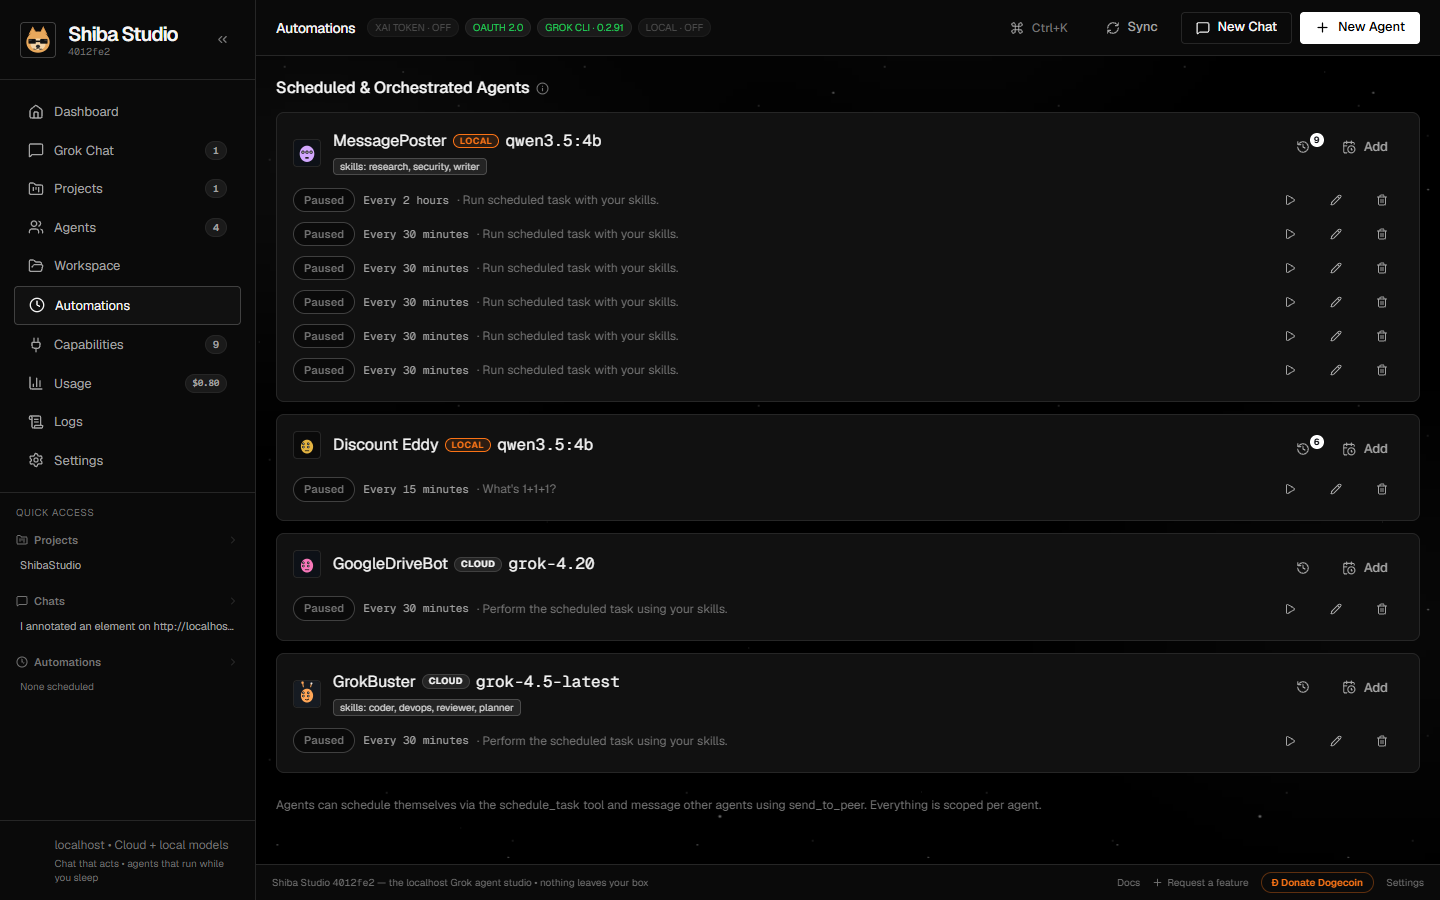
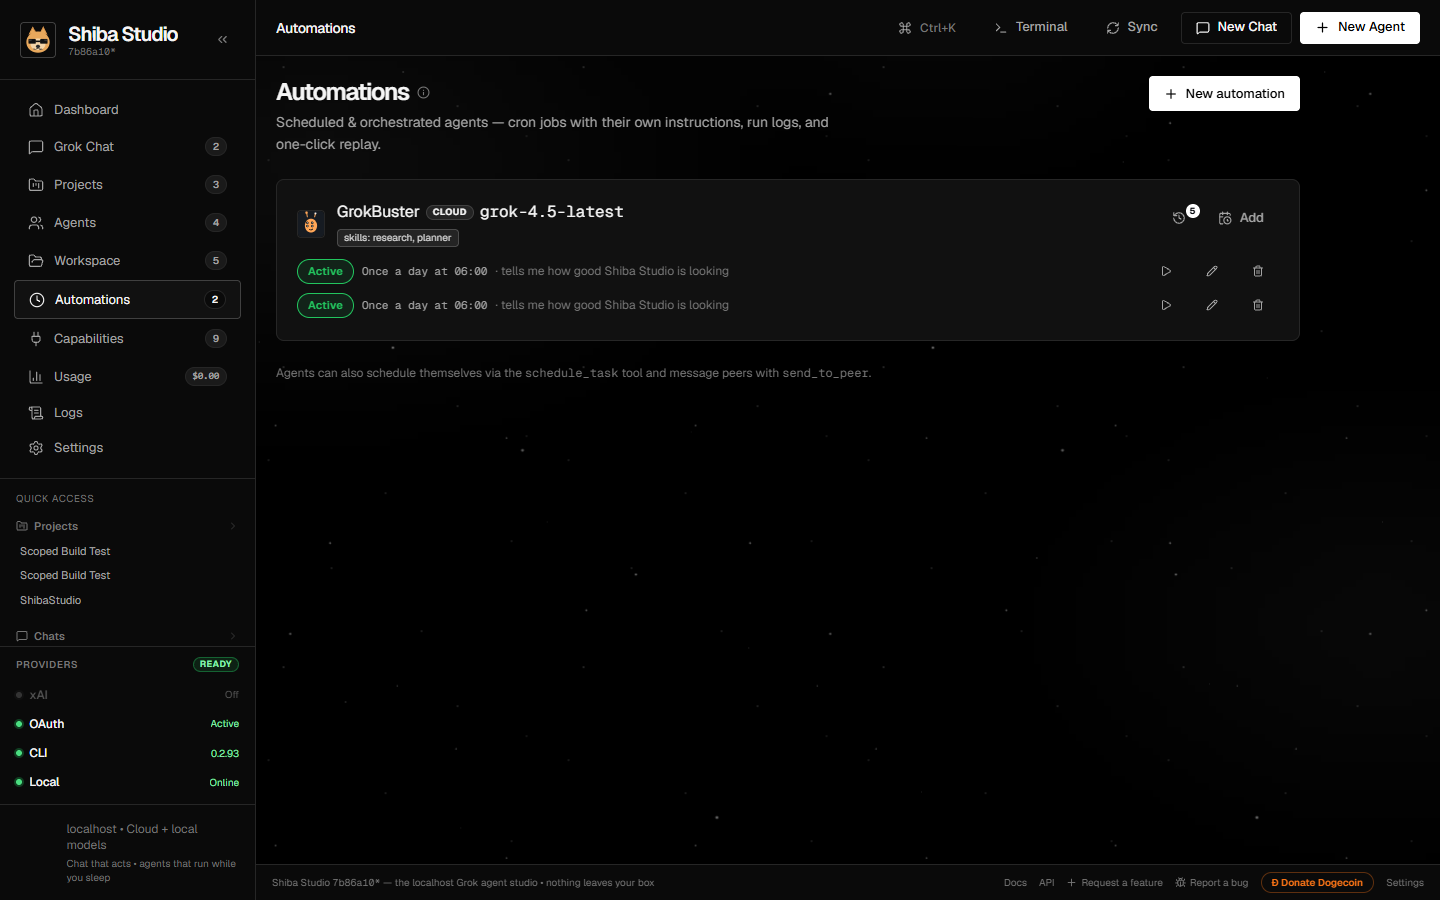
Refresh demo reel with latest screenshots + add pages
Recaptured shots from the current UI and expanded the reel from 3 to 7:
Grok Chat, Dashboard, Agents, Automations, Capabilities, Settings, and the
new interactive API Explorer. Updated stats (40+ tools, 8 integrations) and
the Capabilities card to include Vercel/Netlify.

diff --git a/index.html b/index.html
@@ -365,23 +365,31 @@
       <div class="reel-frame">
         <div class="term-bar"><span></span><span></span><span></span><em class="reel-url">localhost:3000</em></div>
         <div class="reel-stage">
-          <img class="reel-img active" src="shot-chat.png" alt="Grok Chat: annotated sub-browser element request with selector, HTML snippet, and mic-enabled composer" />
+          <img class="reel-img active" src="shot-chat.png" alt="Grok Chat: session rail, streaming reasoning, slash-command composer, and the annotation sub-browser" />
           <img class="reel-img" src="shot-dashboard.png" alt="Dashboard: hero, readiness badges, quick stats, and recent agent runs with statuses and view-answer links" />
-          <img class="reel-img" src="shot-automations.png" alt="Automations: scheduled agents with Active/Paused states, per-schedule Run/Edit/Delete, and compact run-log icon" />
+          <img class="reel-img" src="shot-agents.png" alt="Agents: local and cloud Grok agents with models, workspaces, integration scopes, skills, and schedule state" />
+          <img class="reel-img" src="shot-automations.png" alt="Automations: scheduled agents with Active/Paused states, per-schedule Run/Edit/Delete, and run-log access" />
+          <img class="reel-img" src="shot-capabilities.png" alt="Capabilities: core integrations (GitHub, Slack, Drive, Discord, X, Obsidian, Vercel, Netlify), skills, MCP servers, and the tool catalog" />
+          <img class="reel-img" src="shot-settings.png" alt="Settings: model sources, agent behavior, cost & safety guardrails, and backup & restore" />
+          <img class="reel-img" src="shot-api-docs.png" alt="API Explorer: grouped endpoints with GET/POST badges and a live request/response panel" />
         </div>
       </div>
       <div class="reel-nav">
         <button class="reel-dot active" data-i="0">Grok Chat</button>
         <button class="reel-dot" data-i="1">Dashboard</button>
-        <button class="reel-dot" data-i="2">Automations</button>
+        <button class="reel-dot" data-i="2">Agents</button>
+        <button class="reel-dot" data-i="3">Automations</button>
+        <button class="reel-dot" data-i="4">Capabilities</button>
+        <button class="reel-dot" data-i="5">Settings</button>
+        <button class="reel-dot" data-i="6">API Explorer</button>
       </div>
     </div>
   </section>
 
   <!-- Stats strip -->
   <div class="stats">
-    <div class="stat"><b>30+</b><span>built-in agent tools</span></div>
-    <div class="stat"><b>6</b><span>core integrations</span></div>
+    <div class="stat"><b>40+</b><span>built-in agent tools</span></div>
+    <div class="stat"><b>8</b><span>core integrations</span></div>
     <div class="stat"><b>4</b><span>model routes: token · OAuth · CLI · local</span></div>
     <div class="stat"><b>100%</b><span>local — zero telemetry</span></div>
     <div class="stat"><b>AES-256</b><span>credentials at rest</span></div>
@@ -411,11 +419,11 @@
       <div class="card"><div class="ico">🎯</div><h3>Annotation sub-browser</h3>
         <p>Load the app you're building, click any element DevTools-style, and send its selector + HTML + highlighted screenshot into chat for pinpoint code refinement.</p></div>
       <div class="card"><div class="ico">🤖</div><h3>Autonomous agents</h3>
-        <p>Each with its own model, git worktree, integration scopes, skills, peers, and persistent memory. 30+ built-in tools: files, shell, browser, web research, image generation, PRs.</p></div>
+        <p>Each with its own model, git worktree, integration scopes, skills, peers, and persistent memory. 40+ built-in tools: files, shell, browser, web research, image generation, PRs, deploys.</p></div>
       <div class="card"><div class="ico">⏰</div><h3>Headless automations</h3>
         <p>Cron-scheduled runs with live execution traces. Schedules arm at server start — agents keep working with the browser closed. Deleted agents retire their own schedules.</p></div>
       <div class="card"><div class="ico">🔌</div><h3>Capabilities</h3>
-        <p>GitHub, Slack, Google Drive, Discord, X, Obsidian, MCP servers, and custom skills. Scoped per-agent — an Obsidian-scoped agent knows its whole vault.</p></div>
+        <p>GitHub, Slack, Google Drive, Discord, X, Obsidian, Vercel, Netlify, MCP servers, and custom skills. Scoped per-agent — an Obsidian-scoped agent knows its whole vault; Vercel/Netlify-scoped agents can deploy.</p></div>
       <div class="card"><div class="ico">🔒</div><h3>Local-first, audited</h3>
         <p>Credentials AES-256-GCM encrypted at rest. Runs, chats, and every action in an embedded SQLite audit log. Zero telemetry — traffic goes only to xAI and services you connect.</p></div>
     </div>